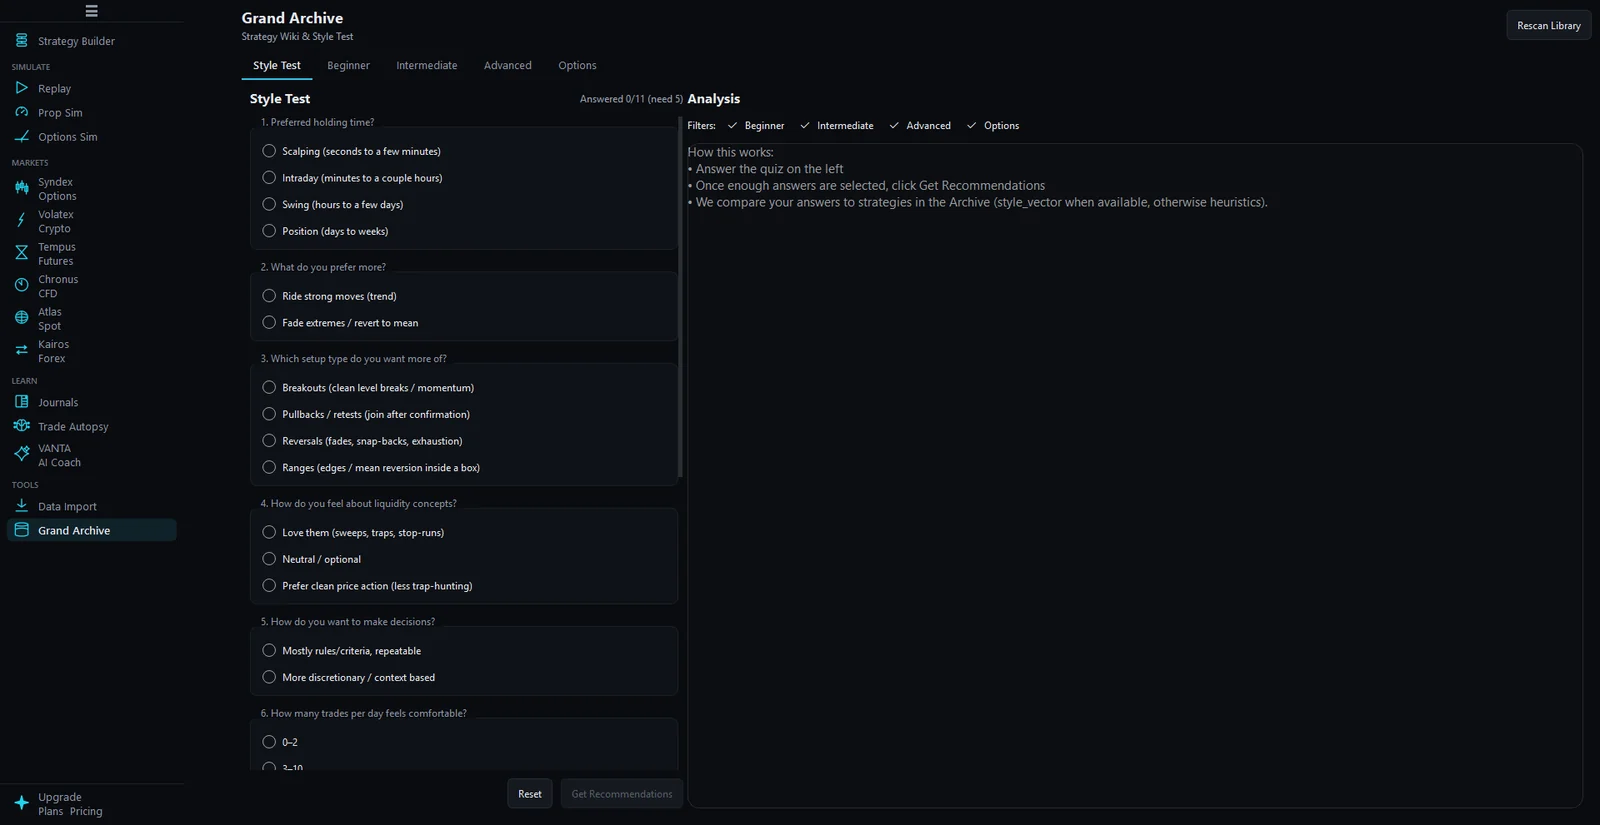
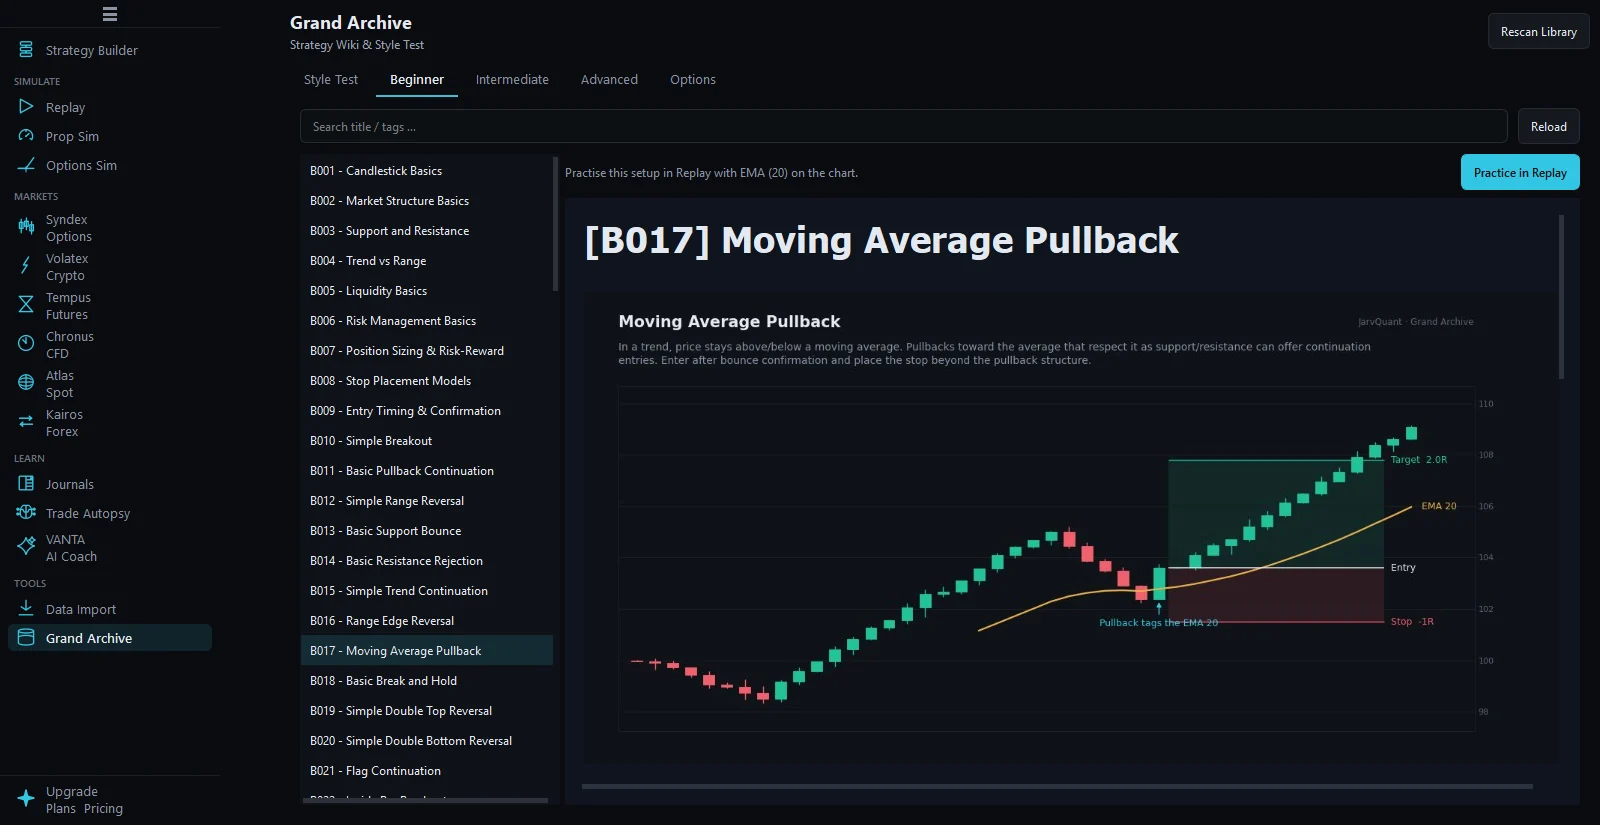
Showcase: new app shots (Replay, PANTHEON, Session review, Strategy Builder, Grand Archive)

diff --git a/index.html b/index.html
@@ -59,11 +59,11 @@
         "Full data sovereignty: all data stored locally, never shared with external servers"
       ],
       "screenshot": [
-        "https://www.jarvquant.com/assets/autopsy-overtrade.png",
-        "https://www.jarvquant.com/assets/autopsy-grid.png",
-        "https://www.jarvquant.com/assets/autopsy-equity.png",
-        "https://www.jarvquant.com/assets/archive-style.png",
-        "https://www.jarvquant.com/assets/import-mt5.png"
+        "https://www.jarvquant.com/assets/app-replay.webp",
+        "https://www.jarvquant.com/assets/app-pantheon.webp",
+        "https://www.jarvquant.com/assets/app-session.webp",
+        "https://www.jarvquant.com/assets/app-builder.webp",
+        "https://www.jarvquant.com/assets/app-archive.webp"
       ],
       "offers": [
         {
@@ -454,31 +454,31 @@
         <div class="showcase">
           <div class="tilt" id="tilt">
             <figure class="shot" style="margin:0">
-              <div class="shot-bar" aria-hidden="true"><span class="dot"></span><span class="dot"></span><span class="dot"></span><span class="title" id="shotTitle">JarvQuant · Syndex</span></div>
+              <div class="shot-bar" aria-hidden="true"><span class="dot"></span><span class="dot"></span><span class="dot"></span><span class="title" id="shotTitle">JarvQuant · Replay</span></div>
               <div class="shot-imgs" id="shotImgs">
-                <img class="on" src="assets/app-syndex.webp" width="1600" height="825" alt="Syndex synthetic options market with live chart and option chain" data-title="Syndex" />
-                <img src="assets/app-autopsy.webp" width="1600" height="825" loading="lazy" alt="Trade Autopsy dashboard with KPIs, equity curve and PnL per day" data-title="Trade Autopsy" />
-                <img src="assets/app-archive.webp" width="1600" height="825" loading="lazy" alt="Grand Archive style test" data-title="Grand Archive" />
-                <img src="assets/app-vanta.webp" width="1600" height="825" loading="lazy" alt="VANTA AI coach chat and analysis panel" data-title="VANTA" />
-                <img src="assets/app-journal.webp" width="1600" height="825" loading="lazy" alt="Structured trade journal entry" data-title="Journal" />
+                <img class="on" src="assets/app-replay.webp" width="1600" height="825" alt="Replay chart with EMA and MACD, an open long position with draggable stop and target" data-title="Replay" />
+                <img src="assets/app-pantheon.webp" width="1600" height="825" loading="lazy" alt="PANTHEON crypto market with a live chart, an open position and the liquidity heatmap" data-title="PANTHEON" />
+                <img src="assets/app-session.webp" width="1600" height="825" loading="lazy" alt="Replay session review with results in R, equity curve and trading habits" data-title="Session review" />
+                <img src="assets/app-builder.webp" width="1600" height="825" loading="lazy" alt="Strategy Builder with the strategy in plain words and four rule slots" data-title="Strategy Builder" />
+                <img src="assets/app-archive.webp" width="1600" height="825" loading="lazy" alt="Grand Archive article with an example chart and a Practice in Replay button" data-title="Grand Archive" />
               </div>
             </figure>
           </div>
         </div>
         <div class="tabs" role="tablist" id="tabs">
-          <button class="tab on" role="tab" aria-selected="true" data-i="0"><span data-i18n="show.t1">Syndex</span><span class="bar"></span></button>
-          <button class="tab" role="tab" aria-selected="false" data-i="1"><span data-i18n="show.t2">Trade Autopsy</span><span class="bar"></span></button>
-          <button class="tab" role="tab" aria-selected="false" data-i="2"><span data-i18n="show.t3">Grand Archive</span><span class="bar"></span></button>
-          <button class="tab" role="tab" aria-selected="false" data-i="3"><span data-i18n="show.t4">VANTA</span><span class="bar"></span></button>
-          <button class="tab" role="tab" aria-selected="false" data-i="4"><span data-i18n="show.t5">Journal</span><span class="bar"></span></button>
+          <button class="tab on" role="tab" aria-selected="true" data-i="0"><span data-i18n="show.t1">Replay</span><span class="bar"></span></button>
+          <button class="tab" role="tab" aria-selected="false" data-i="1"><span data-i18n="show.t2">PANTHEON</span><span class="bar"></span></button>
+          <button class="tab" role="tab" aria-selected="false" data-i="2"><span data-i18n="show.t3">Session review</span><span class="bar"></span></button>
+          <button class="tab" role="tab" aria-selected="false" data-i="3"><span data-i18n="show.t4">Strategy Builder</span><span class="bar"></span></button>
+          <button class="tab" role="tab" aria-selected="false" data-i="4"><span data-i18n="show.t5">Grand Archive</span><span class="bar"></span></button>
         </div>
         <p class="caption" id="caption" aria-live="polite"></p>
         <div hidden>
-          <span data-i18n="show.c1" id="cap0">Syndex: a synthetic options market with a live chart, a full chain, depth and an IV surface.</span>
-          <span data-i18n="show.c2" id="cap1">Trade Autopsy: winrate, average R, drawdown, PnL per day and performance per session.</span>
-          <span data-i18n="show.c3" id="cap2">Grand Archive: a style test that ranks 300+ playbooks against the way you trade.</span>
-          <span data-i18n="show.c4" id="cap3">VANTA: an AI coach that works from your own journal and Autopsy data.</span>
-          <span data-i18n="show.c5" id="cap4">Journal: structured entries for context, setup, execution and review.</span>
+          <span data-i18n="show.c1" id="cap0">Replay: real markets bar by bar, with indicators on the chart and your stop and target as handles you drag.</span>
+          <span data-i18n="show.c2" id="cap1">PANTHEON: six live synthetic markets with an order book, a depth chart and a liquidity heatmap that keeps an hour of history.</span>
+          <span data-i18n="show.c3" id="cap2">Session review: after every Replay session the numbers in plain words, your equity in R and the habits that make or cost you money.</span>
+          <span data-i18n="show.c4" id="cap3">Strategy Builder: four slots, no code. Your rules read back as one sentence, then a backtest with costs included.</span>
+          <span data-i18n="show.c5" id="cap4">Grand Archive: 300+ playbooks with checked example charts and a button that opens the setup in Replay.</span>
         </div>
       </div>
     </section>

diff --git a/site.js b/site.js
@@ -44,16 +44,16 @@ const SITE = {
 
     "show.kicker": "Inside the app",
     "show.title": "Built like a trading terminal. Because it is one.",
-    "show.t1": "Syndex",
-    "show.t2": "Trade Autopsy",
-    "show.t3": "Grand Archive",
-    "show.t4": "VANTA",
-    "show.t5": "Journal",
-    "show.c1": "Syndex: a synthetic options market with a live chart, a full chain, depth and an IV surface.",
-    "show.c2": "Trade Autopsy: winrate, average R, drawdown, PnL per day and performance per session.",
-    "show.c3": "Grand Archive: a style test that ranks 300+ playbooks against the way you trade.",
-    "show.c4": "VANTA: an AI coach that works from your own journal and Autopsy data.",
-    "show.c5": "Journal: structured entries for context, setup, execution and review.",
+    "show.t1": "Replay",
+    "show.t2": "PANTHEON",
+    "show.t3": "Session review",
+    "show.t4": "Strategy Builder",
+    "show.t5": "Grand Archive",
+    "show.c1": "Replay: real markets bar by bar, with indicators on the chart and your stop and target as handles you drag.",
+    "show.c2": "PANTHEON: six live synthetic markets with an order book, a depth chart and a liquidity heatmap that keeps an hour of history.",
+    "show.c3": "Session review: after every Replay session the numbers in plain words, your equity in R and the habits that make or cost you money.",
+    "show.c4": "Strategy Builder: four slots, no code. Your rules read back as one sentence, then a backtest with costs included.",
+    "show.c5": "Grand Archive: 300+ playbooks with checked example charts and a button that opens the setup in Replay.",
 
     "features.kicker": "Everything in the box",
     "features.title": "One app instead of five tabs and a spreadsheet.",
@@ -171,16 +171,16 @@ const SITE = {
 
     "show.kicker": "In der App",
     "show.title": "Gebaut wie ein Trading-Terminal. Weil es eins ist.",
-    "show.t1": "Syndex",
-    "show.t2": "Trade Autopsy",
-    "show.t3": "Grand Archive",
-    "show.t4": "VANTA",
-    "show.t5": "Journal",
-    "show.c1": "Syndex: ein synthetischer Optionsmarkt mit Live-Chart, kompletter Chain, Markttiefe und IV-Surface.",
-    "show.c2": "Trade Autopsy: Trefferquote, durchschnittliches R, Drawdown, PnL pro Tag und Performance pro Session.",
-    "show.c3": "Grand Archive: ein Stil-Test, der über 300 Playbooks nach deiner Art zu traden sortiert.",
-    "show.c4": "VANTA: ein KI-Coach, der mit deinem eigenen Journal und deinen Autopsy-Daten arbeitet.",
-    "show.c5": "Journal: strukturierte Einträge für Kontext, Setup, Ausführung und Review.",
+    "show.t1": "Replay",
+    "show.t2": "PANTHEON",
+    "show.t3": "Session-Auswertung",
+    "show.t4": "Strategy Builder",
+    "show.t5": "Grand Archive",
+    "show.c1": "Replay: echte Märkte Bar für Bar, mit Indikatoren im Chart und Stop und Ziel als Griffe, die du ziehst.",
+    "show.c2": "PANTHEON: sechs synthetische Live-Märkte mit Orderbuch, Tiefen-Chart und einer Liquiditäts-Heatmap mit einer Stunde Historie.",
+    "show.c3": "Session-Auswertung: nach jeder Replay-Session die Zahlen in klaren Worten, deine Equity in R und die Gewohnheiten, die dir Geld bringen oder kosten.",
+    "show.c4": "Strategy Builder: vier Felder, kein Code. Deine Regeln als ein Satz, dann ein Backtest mit Kosten.",
+    "show.c5": "Grand Archive: über 300 Playbooks mit geprüften Beispielcharts und einem Button, der das Setup direkt in Replay öffnet.",
 
     "features.kicker": "Alles drin",
     "features.title": "Eine App statt fünf Tabs und einer Tabelle.",
